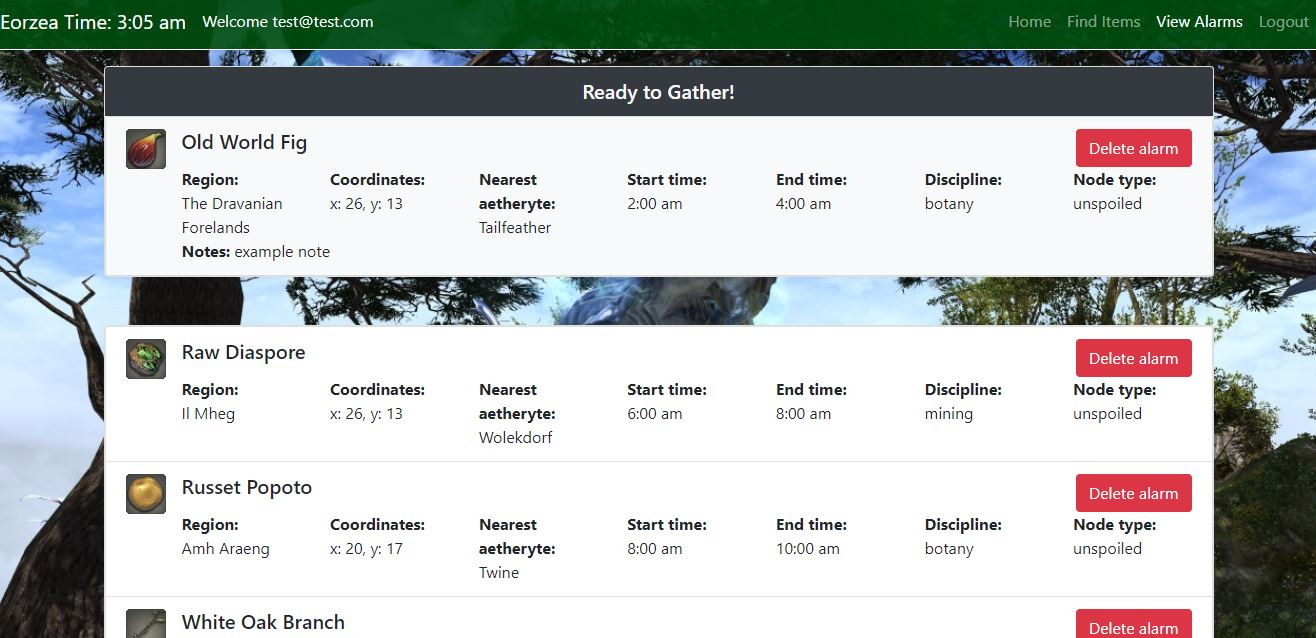
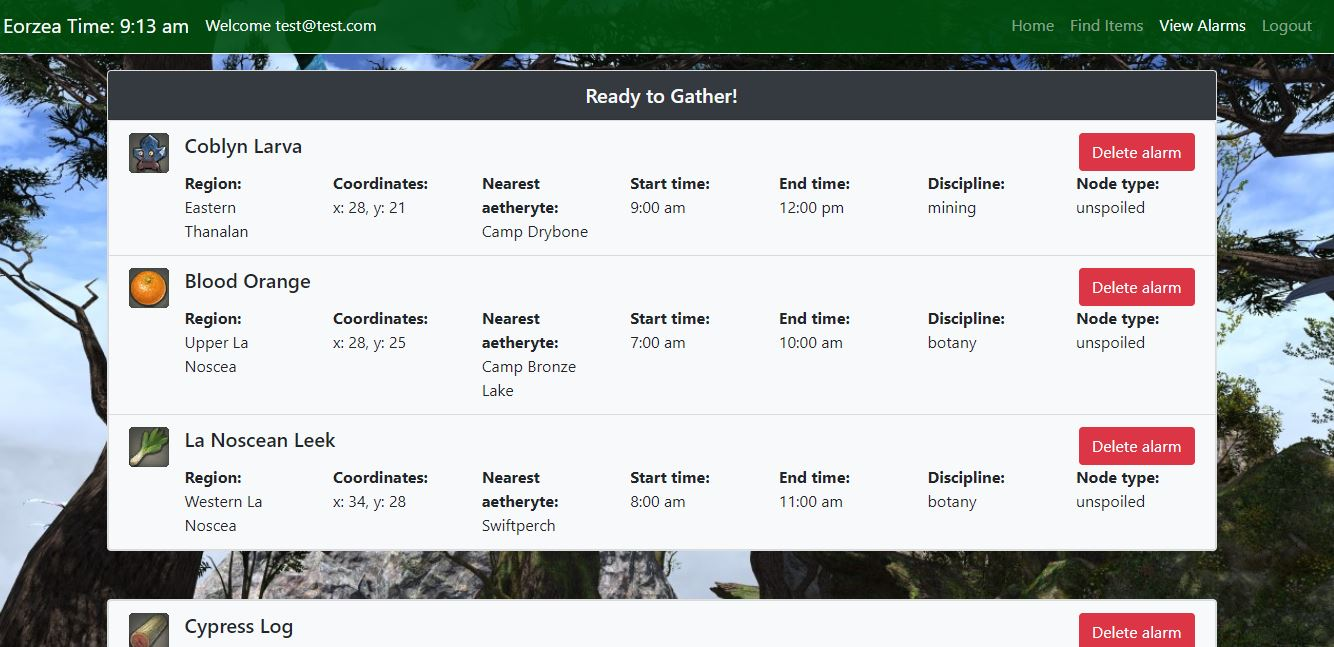
missed color change on Alarms page; address eslint warnings; update lodash

diff --git a/client/src/components/Alarms/Alarms.js b/client/src/components/Alarms/Alarms.js
@@ -62,6 +62,7 @@ const Alarms = function() {
 
     useEffect(() => {
         fetchAlarms();
+        // eslint-disable-next-line
     }, []);
 
 
@@ -120,7 +121,7 @@ const Alarms = function() {
                     <div class="card mb-5">
                         <ul class="list-group">
                             {alarms.map((alarm) => {
-                                return <li className="list-group-item">
+                                return <li className="list-group-item bg-light">
                                     <ItemCard
                                         key={alarm.id}
                                         aetheryte={alarm.aetheryte}

diff --git a/client/src/components/ItemCard/ItemCard.js b/client/src/components/ItemCard/ItemCard.js
@@ -1,4 +1,4 @@
-import React, { useState, useContext } from "react";
+import React, { useContext } from "react";
 import { AuthContext } from "../../auth/auth";
 import "./ItemCard.css";
 const moment = require("moment");
